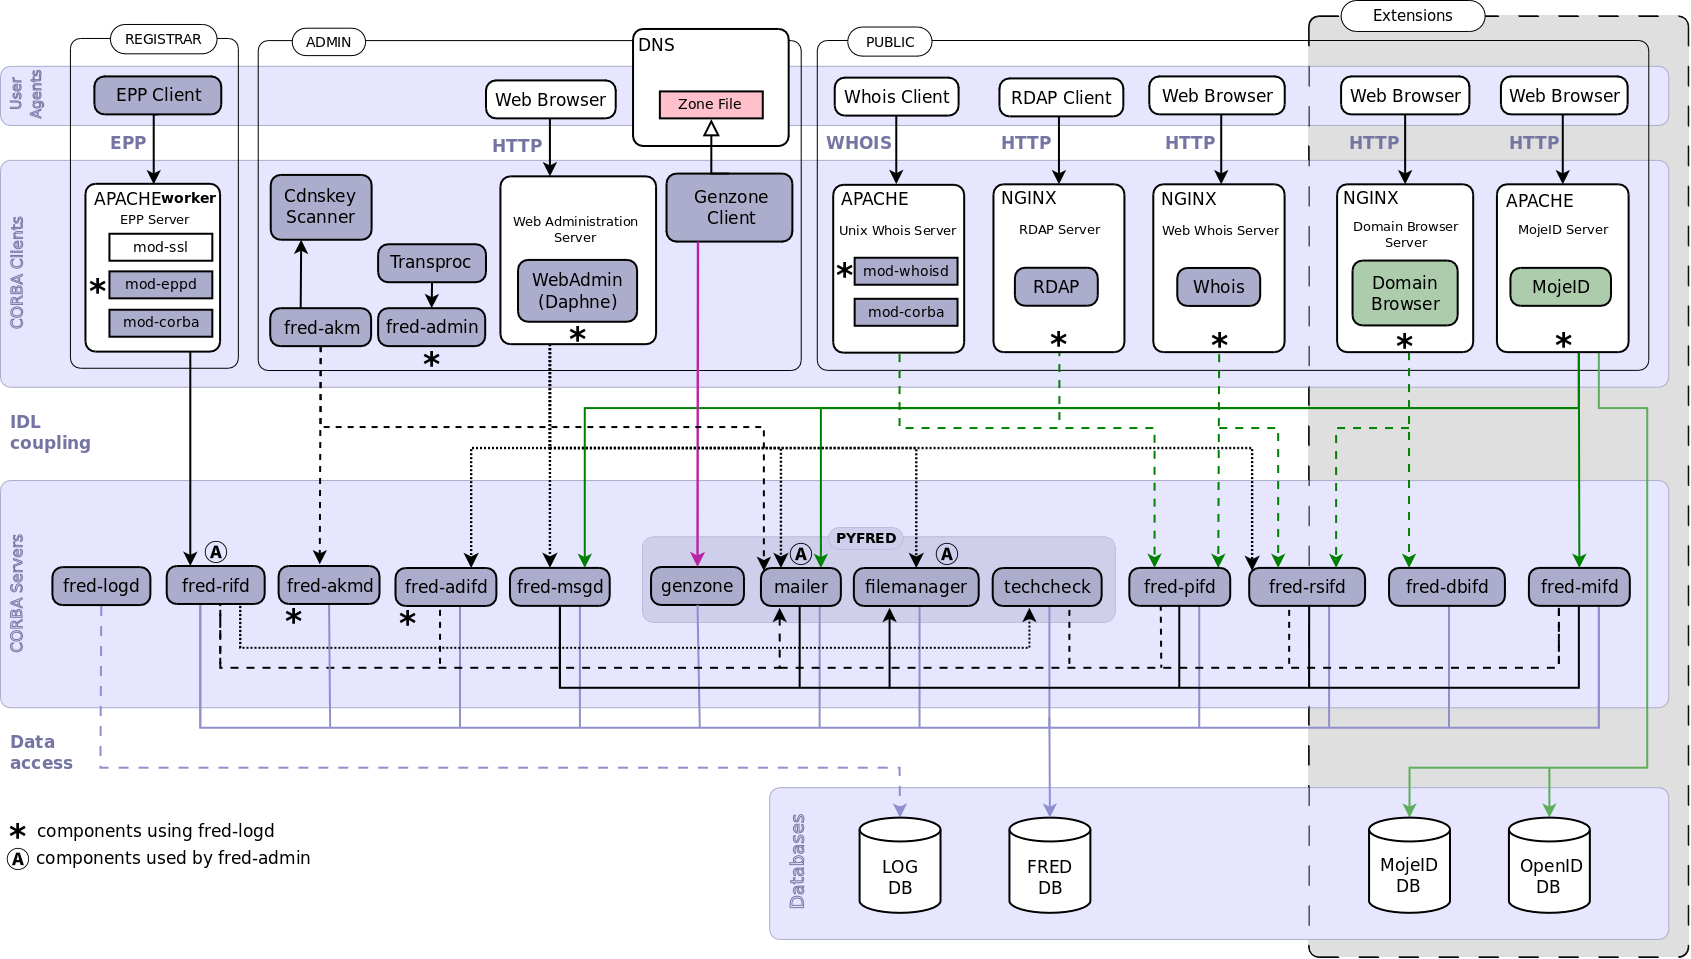
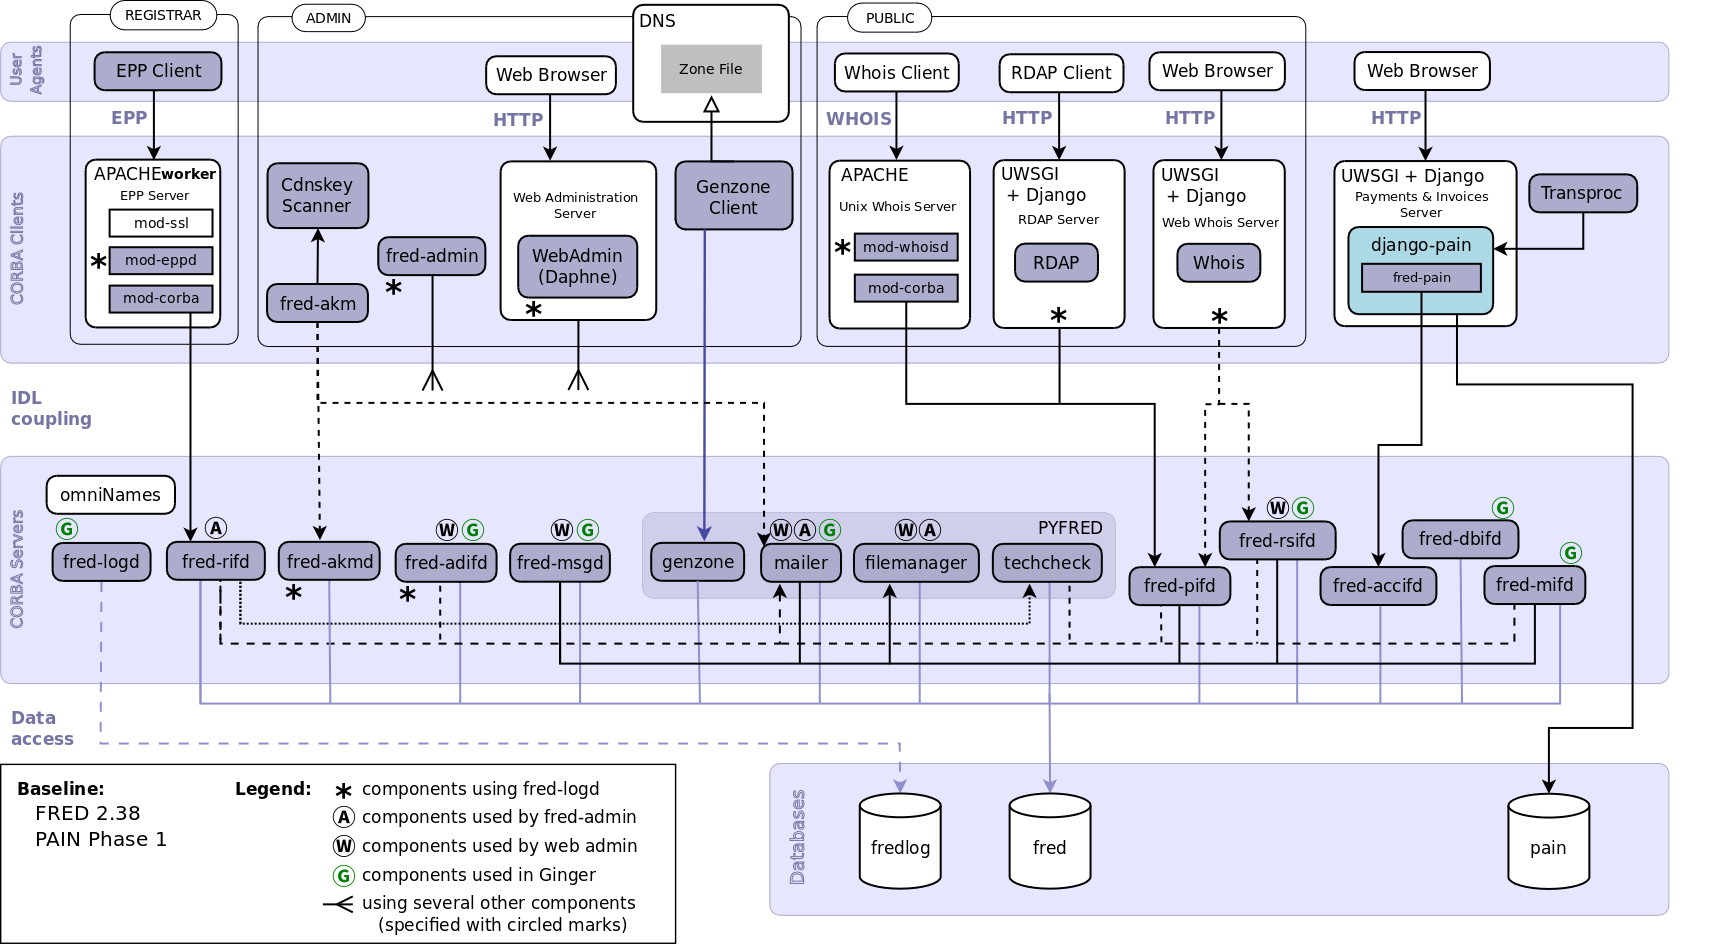
Update component schema and legend

diff --git a/Architecture/TopLevelComponents/index.rst b/Architecture/TopLevelComponents/index.rst
@@ -36,7 +36,7 @@ components and their relationships.
      of the FRED software.
    * *White* components are not developed by the CZ.NIC but are required
      for the proper function of the Registry.
-   * *Green* components are developed by the CZ.NIC but they are not
+   * otherwise coloured components are developed by the CZ.NIC but they are not
      parts of the FRED software.
    * *Arrows* signify direct cooperation of components (the arrow points
      at the component which serves the other component); neither the colour
